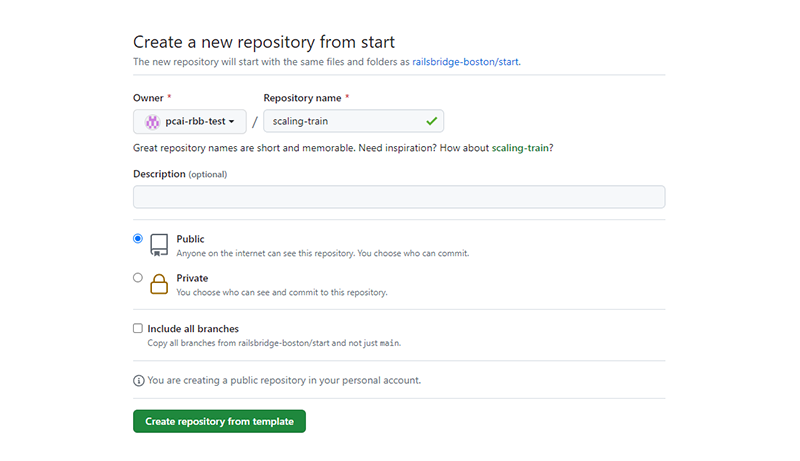
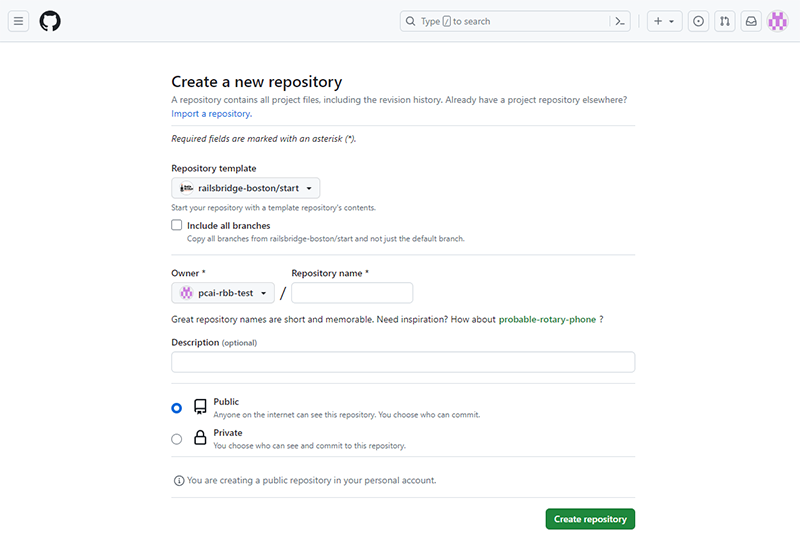
if github could stop updating theme, btn text, and page layouts while i redo the curriculum screenshots that would be greatttt

diff --git a/intro-to-rails.html b/intro-to-rails.html
@@ -56,7 +56,7 @@ description: Intro to rails
             To do that,
             <a href="https://github.com/railsbridge-boston/start/generate" target="_blank">Create a new repository</a> from the Railsbridge template.
             You can pick any name you like, or accept the default suggestion. You can also decide if you want your code to be public
-            for anyone to see, or private. <br><br>Leave the "Include all branches" option unchecked, then click <strong>Create repository from template</strong>.<br>
+            for anyone to see, or private. <br><br>Leave the "Include all branches" option unchecked, then click <strong>Create repository</strong>.<br>
             <img class="screenshot" src="img/codespaces5.png" />
         </p>
         <p>
